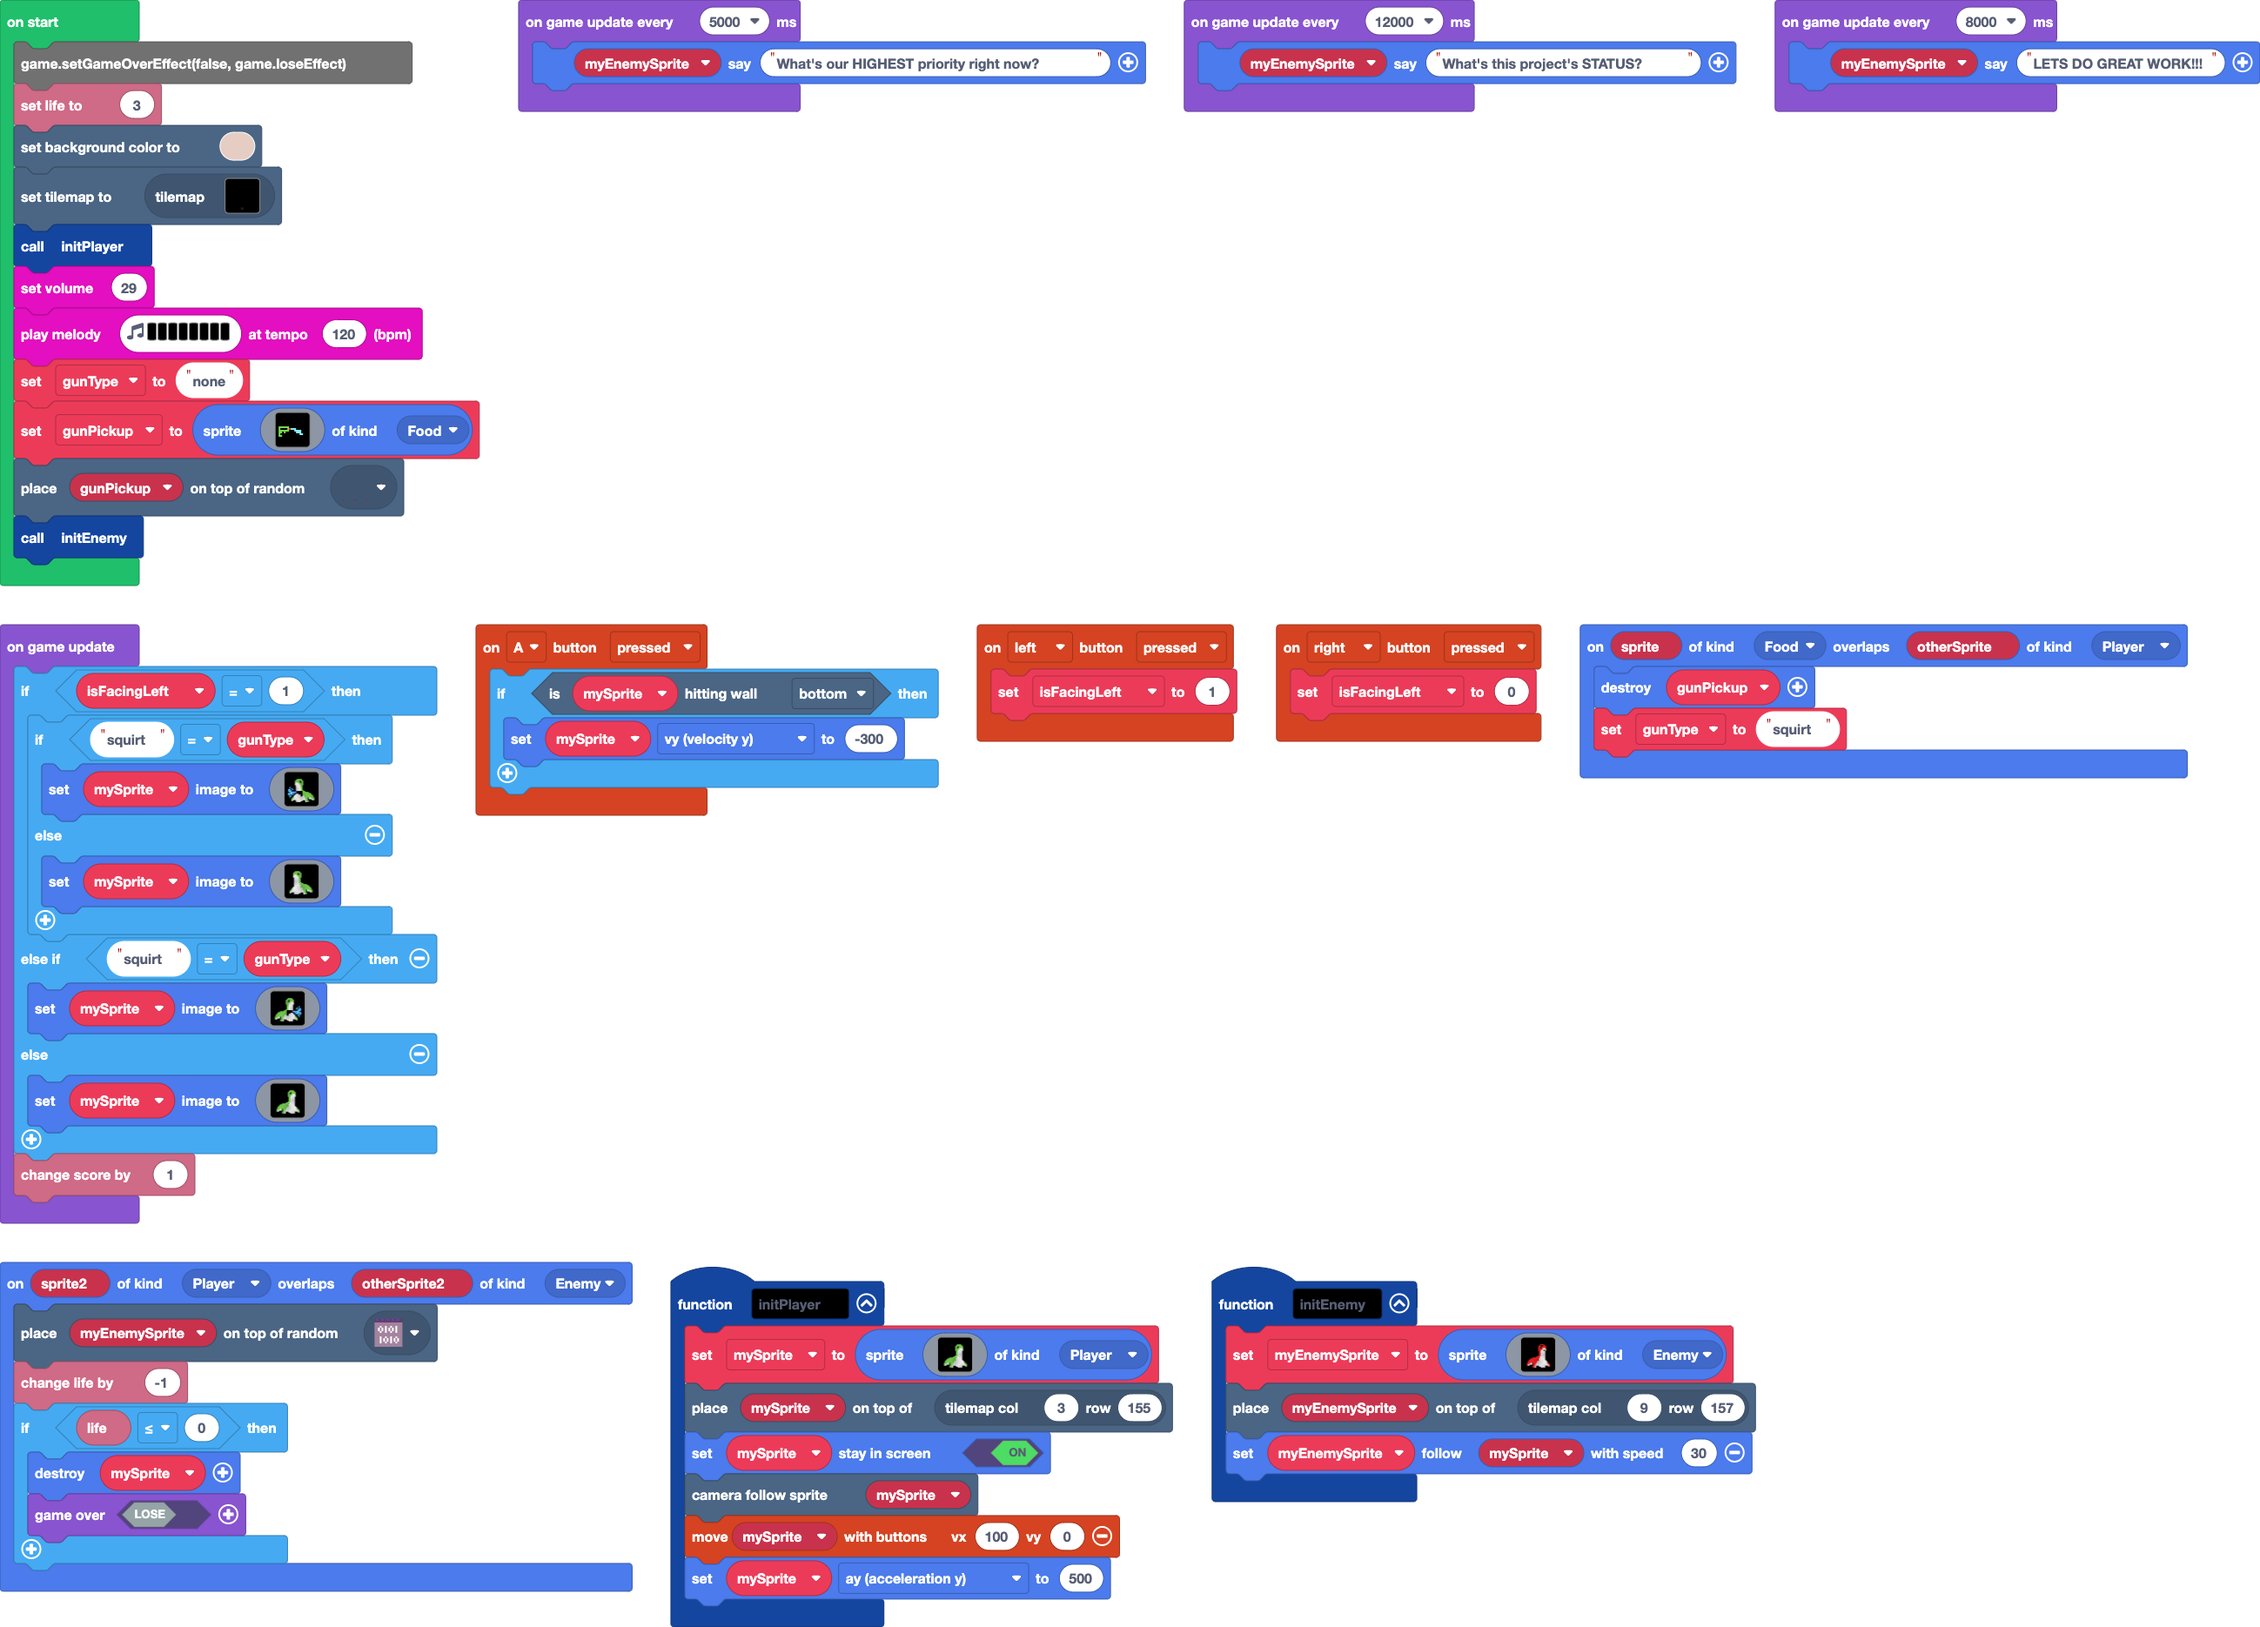
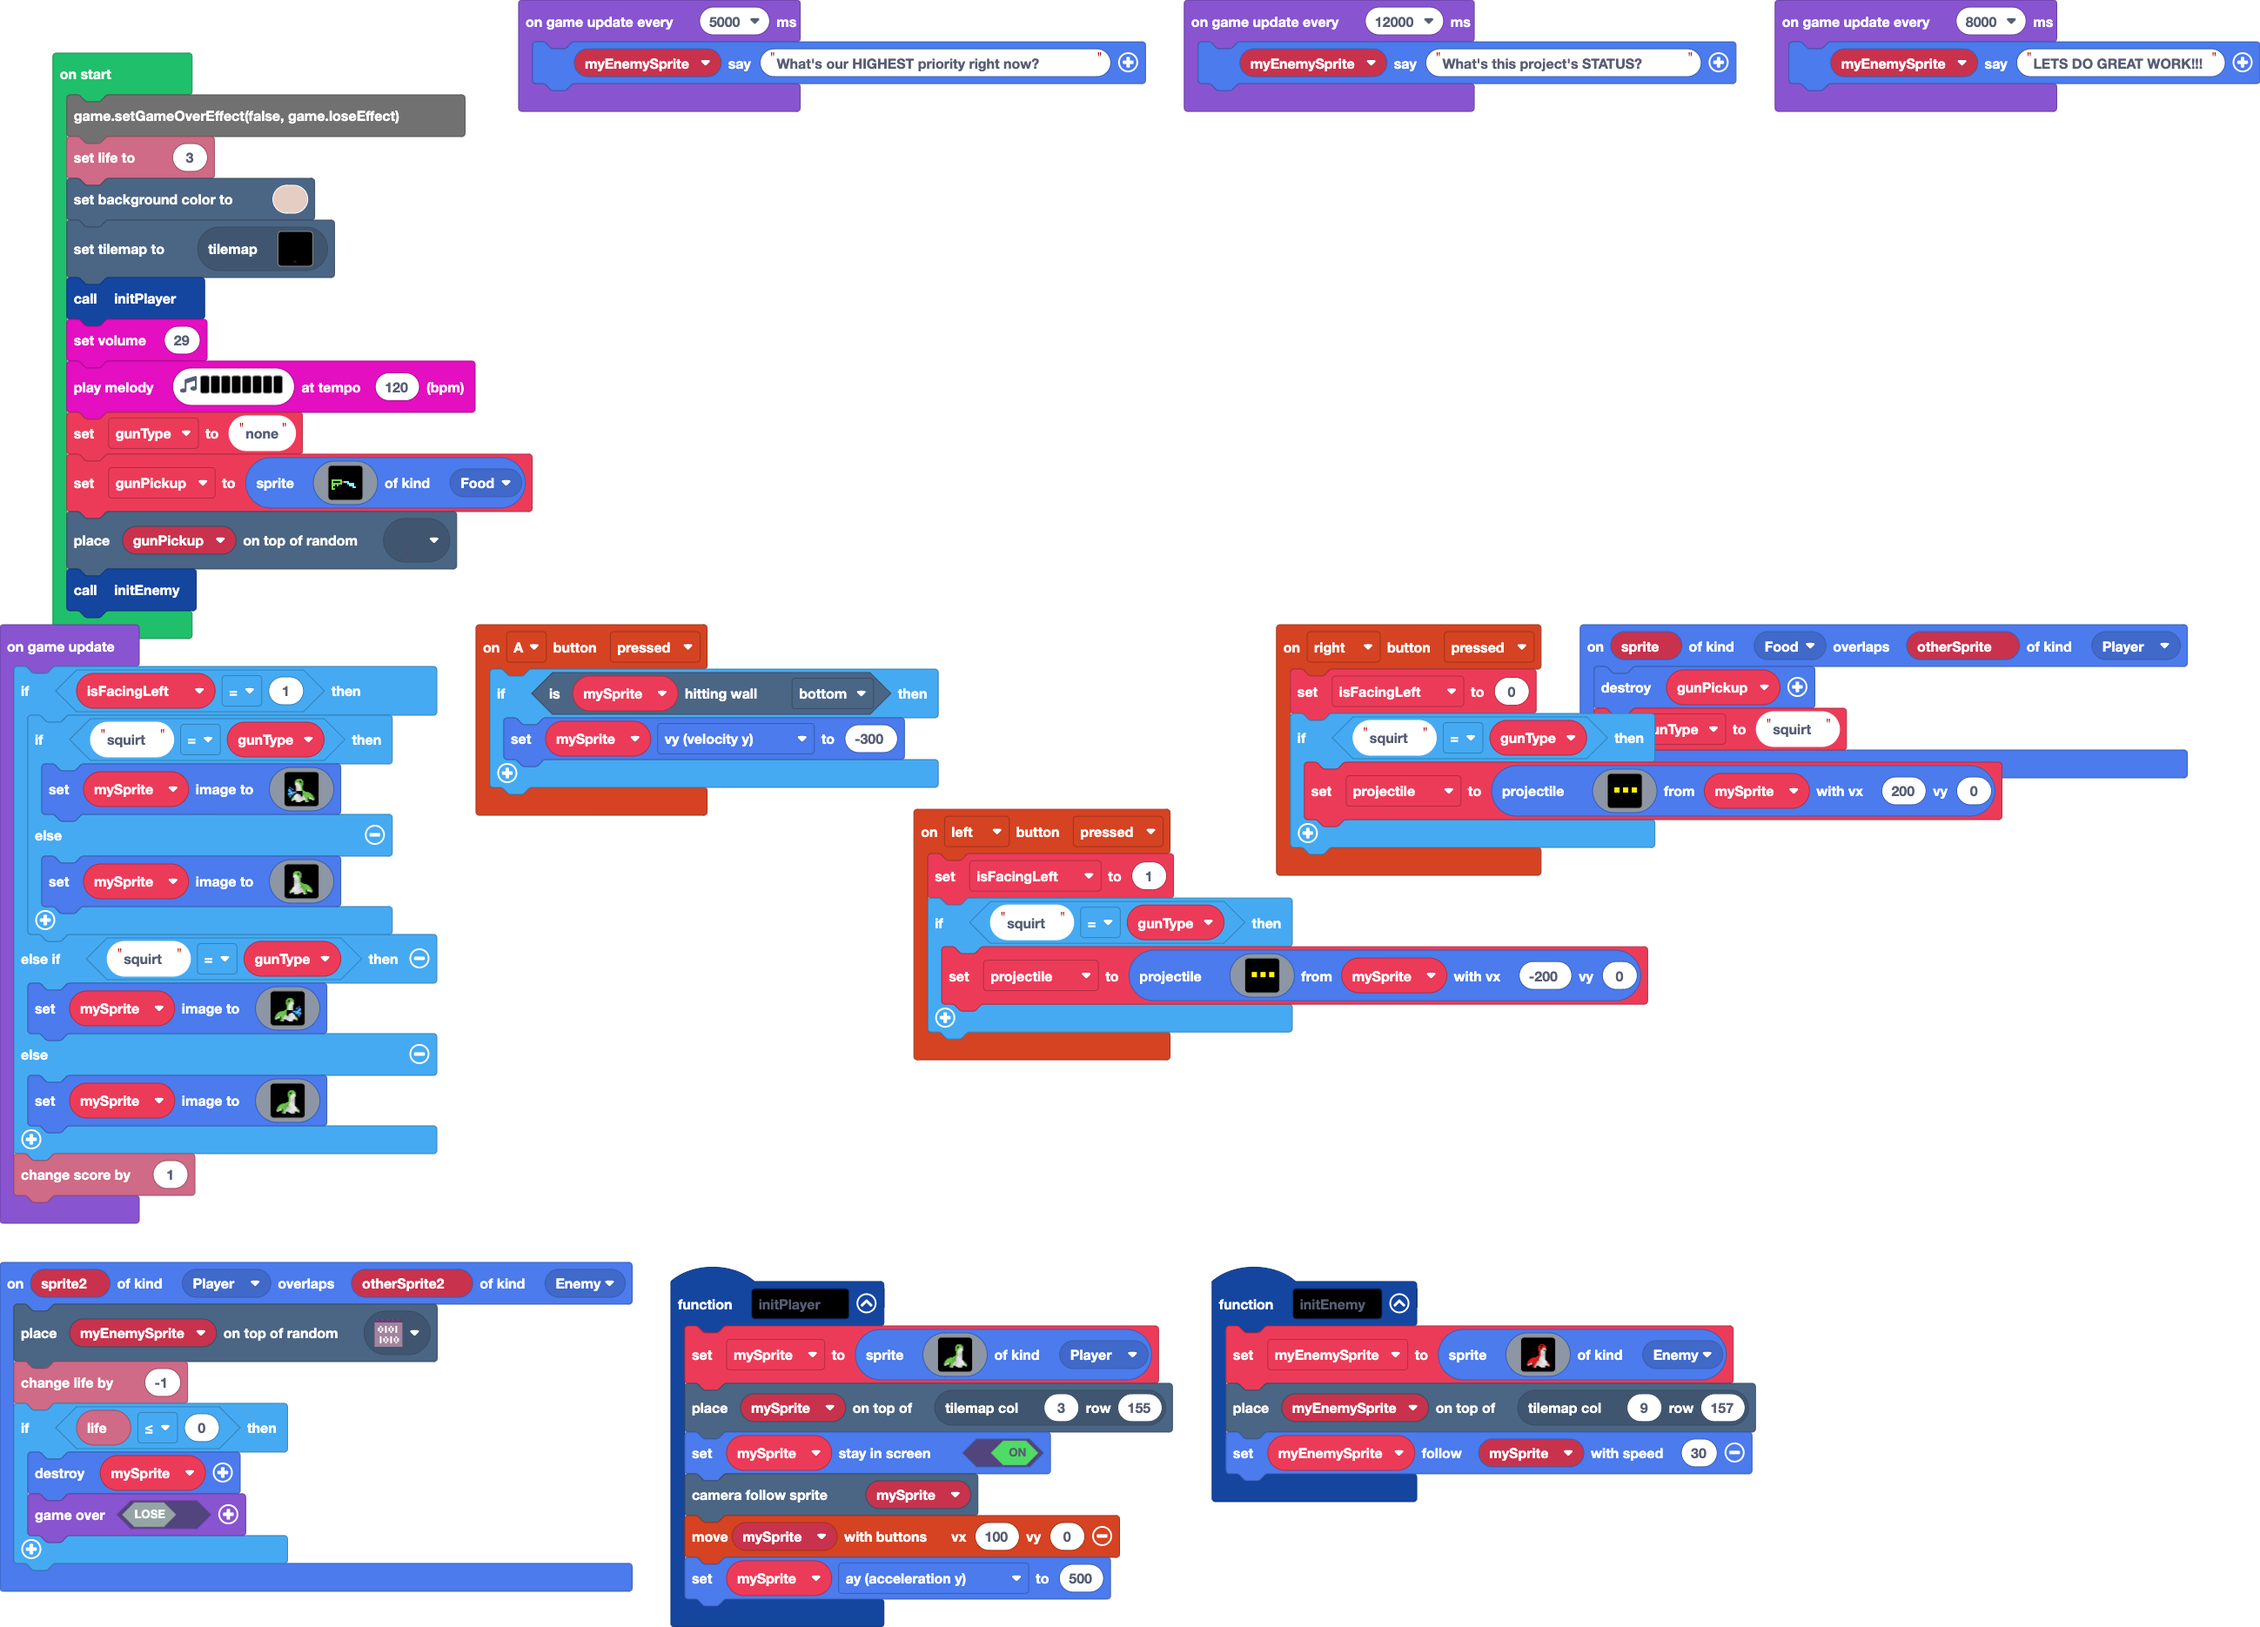
Update main.blocks, main.ts, tilemap.g.jres, tilemap.g.ts, images.g.jres, images.g.ts

Changed region(s): [[0.4055, 0.3722, 0.9045, 0.6513], [0.0, 0.0, 0.2495, 0.4032]]

diff --git a/tilemap.g.ts b/tilemap.g.ts
@@ -216,6 +216,25 @@ namespace myTiles {
 ................
 2222222222222222
 `, [myTiles.transparency16,myTiles.tile1,myTiles.tile3,myTiles.tile5,myTiles.tile4], TileScale.Sixteen);
+            case "level4":
+            case "level4":return tiles.createTilemap(hex`1000100000000000000000000000000000000000000000000000000000000000000000000000000000000000000000000000000000000000000000000000000000000000000000000000000000000000000000000000000000000000000000000000000000000000000000000000000000000000000000000000000000000000000000000000000000000000000000000000000000000000000000000000000000000000000000000000000000000000000000000000000000000000000000000000000000000000000000000000000000000000000000000000000000000000000000000000000000000000000000000000000000000000000000000000000000000000`, img`
+. . . . . . . . . . . . . . . . 
+. . . . . . . . . . . . . . . . 
+. . . . . . . . . . . . . . . . 
+. . . . . . . . . . . . . . . . 
+. . . . . . . . . . . . . . . . 
+. . . . . . . . . . . . . . . . 
+. . . . . . . . . . . . . . . . 
+. . . . . . . . . . . . . . . . 
+. . . . . . . . . . . . . . . . 
+. . . . . . . . . . . . . . . . 
+. . . . . . . . . . . . . . . . 
+. . . . . . . . . . . . . . . . 
+. . . . . . . . . . . . . . . . 
+. . . . . . . . . . . . . . . . 
+. . . . . . . . . . . . . . . . 
+. . . . . . . . . . . . . . . . 
+`, [myTiles.transparency16], TileScale.Sixteen);
         }
         return null;
     })

diff --git a/main.ts b/main.ts
@@ -10,6 +10,9 @@ controller.A.onEvent(ControllerButtonEvent.Pressed, function () {
 })
 controller.left.onEvent(ControllerButtonEvent.Pressed, function () {
     isFacingLeft = 1
+    if ("squirt" == gunType) {
+        projectile = sprites.createProjectileFromSprite(assets.image`projectile`, mySprite, -200, 0)
+    }
 })
 function initPlayer () {
     mySprite = sprites.create(assets.image`myImage`, SpriteKind.Player)
@@ -33,7 +36,11 @@ sprites.onOverlap(SpriteKind.Food, SpriteKind.Player, function (sprite, otherSpr
 })
 controller.right.onEvent(ControllerButtonEvent.Pressed, function () {
     isFacingLeft = 0
+    if ("squirt" == gunType) {
+        projectile = sprites.createProjectileFromSprite(assets.image`projectile`, mySprite, 200, 0)
+    }
 })
+let projectile: Sprite = null
 let isFacingLeft = 0
 let mySprite: Sprite = null
 let myEnemySprite: Sprite = null

diff --git a/images.g.ts b/images.g.ts
@@ -387,6 +387,25 @@ fffff.f7771fff1111111fff17f...
 .ffff.f11111fff.f1177f........
 ......fffffff...ffffff........
 `;
+            case "image13":
+            case "projectile":return img`
+. . . . . . . . . . . . . . . . 
+. . . . . . . . . . . . . . . . 
+. . . . . . . . . . . . . . . . 
+. . . . . . . . . . . . . . . . 
+. . . . . . . . . . . . . . . . 
+. . . . . . . . . . . . . . . . 
+. . 5 5 5 . . 5 5 5 . . 5 5 5 . 
+. . 5 5 5 . . 5 5 5 . . 5 5 5 . 
+. . 5 5 5 . . 5 5 5 . . 5 5 5 . 
+. . . . . . . . . . . . . . . . 
+. . . . . . . . . . . . . . . . 
+. . . . . . . . . . . . . . . . 
+. . . . . . . . . . . . . . . . 
+. . . . . . . . . . . . . . . . 
+. . . . . . . . . . . . . . . . 
+. . . . . . . . . . . . . . . . 
+`;
         }
         return null;
     })
